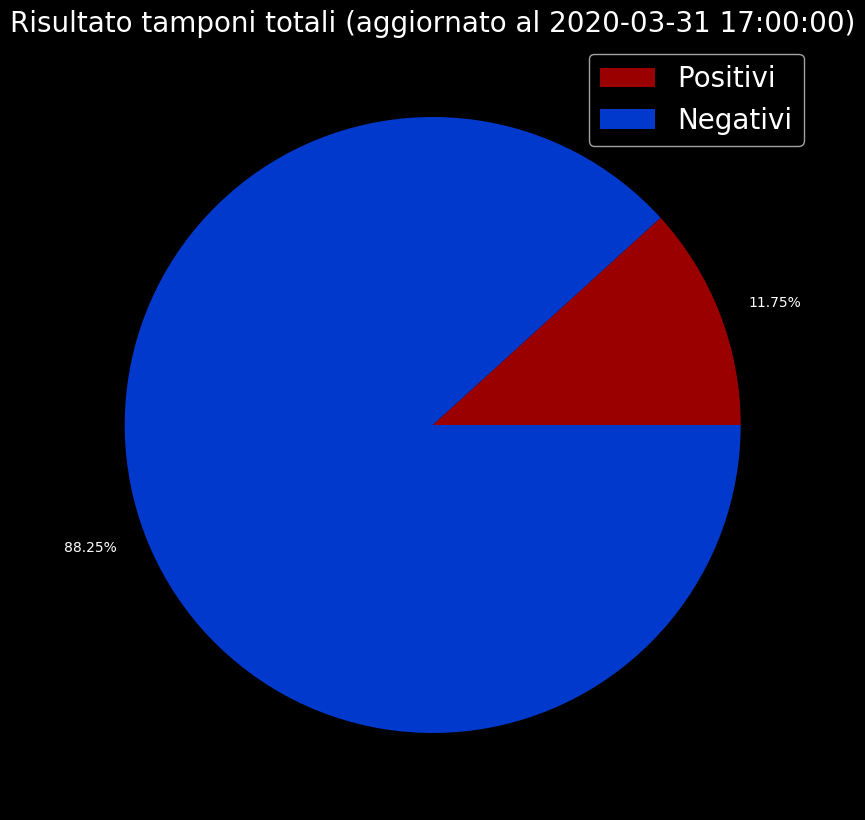
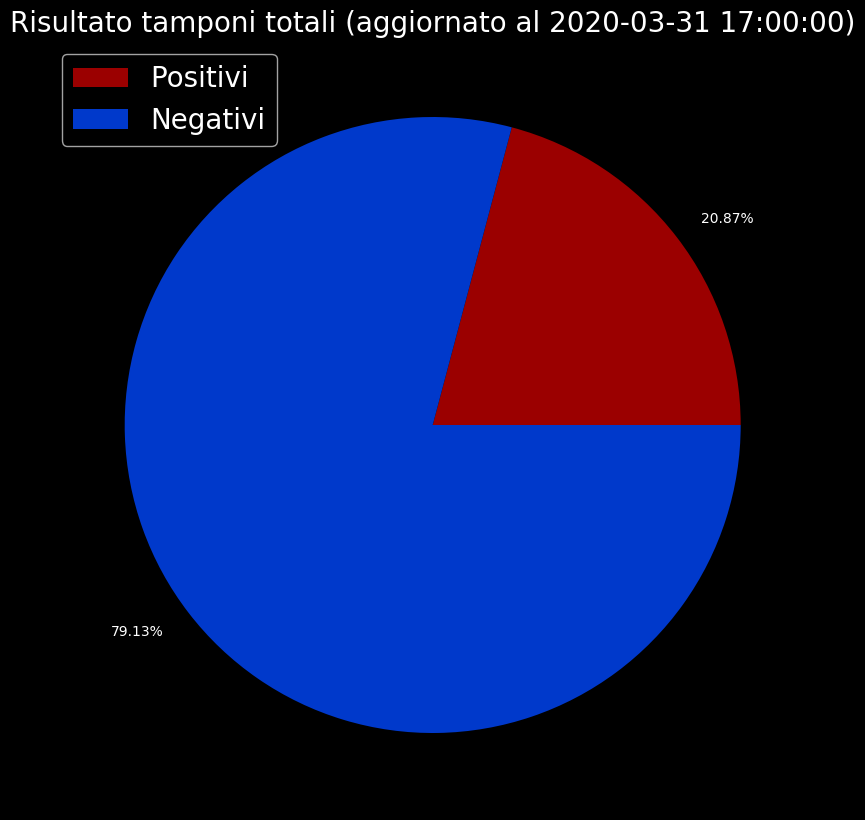
Added 31-03

diff --git a/covid19graphs/src/RatioTestCases.py b/covid19graphs/src/RatioTestCases.py
@@ -29,12 +29,12 @@ def main():
     lasttwodays = list(covid_parser)[-2:]
     today, yesterday = lasttwodays[1], lasttwodays[0]
 
-    tamponi = int(today[11])
-    totalecasiposabs = int(today[10])
+    tamponi = int(today[12])
+    totalecasiposabs = int(today[11])
     totalecasinegabs = tamponi - totalecasiposabs
 
     #Creo aerogramma non cumulativo
-    tamponitoday = tamponi - int(yesterday[11])
+    tamponitoday = tamponi - int(yesterday[12])
     casipositivitoday = int(today[7])
     casinegativitoday = tamponitoday - casipositivitoday
 
